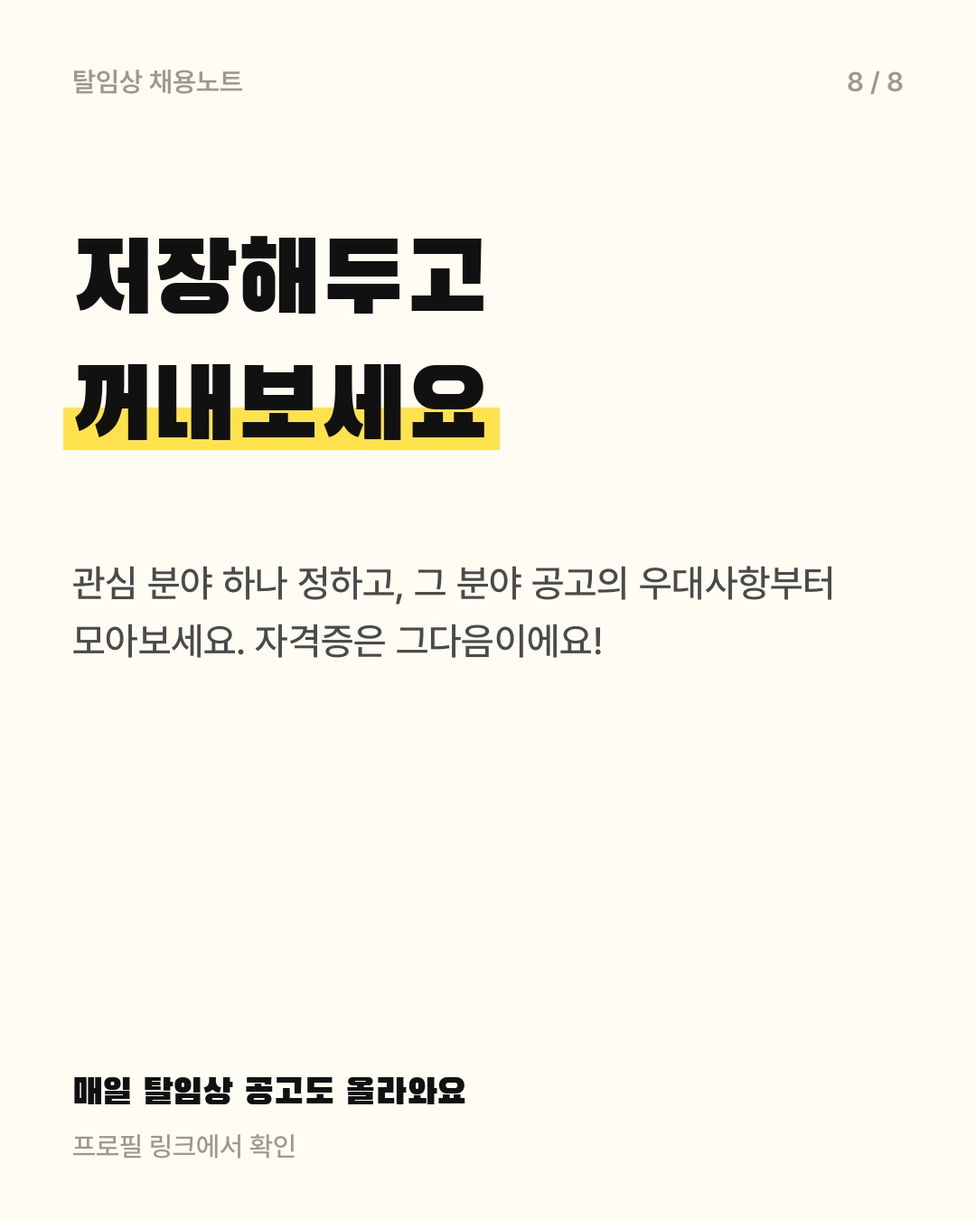
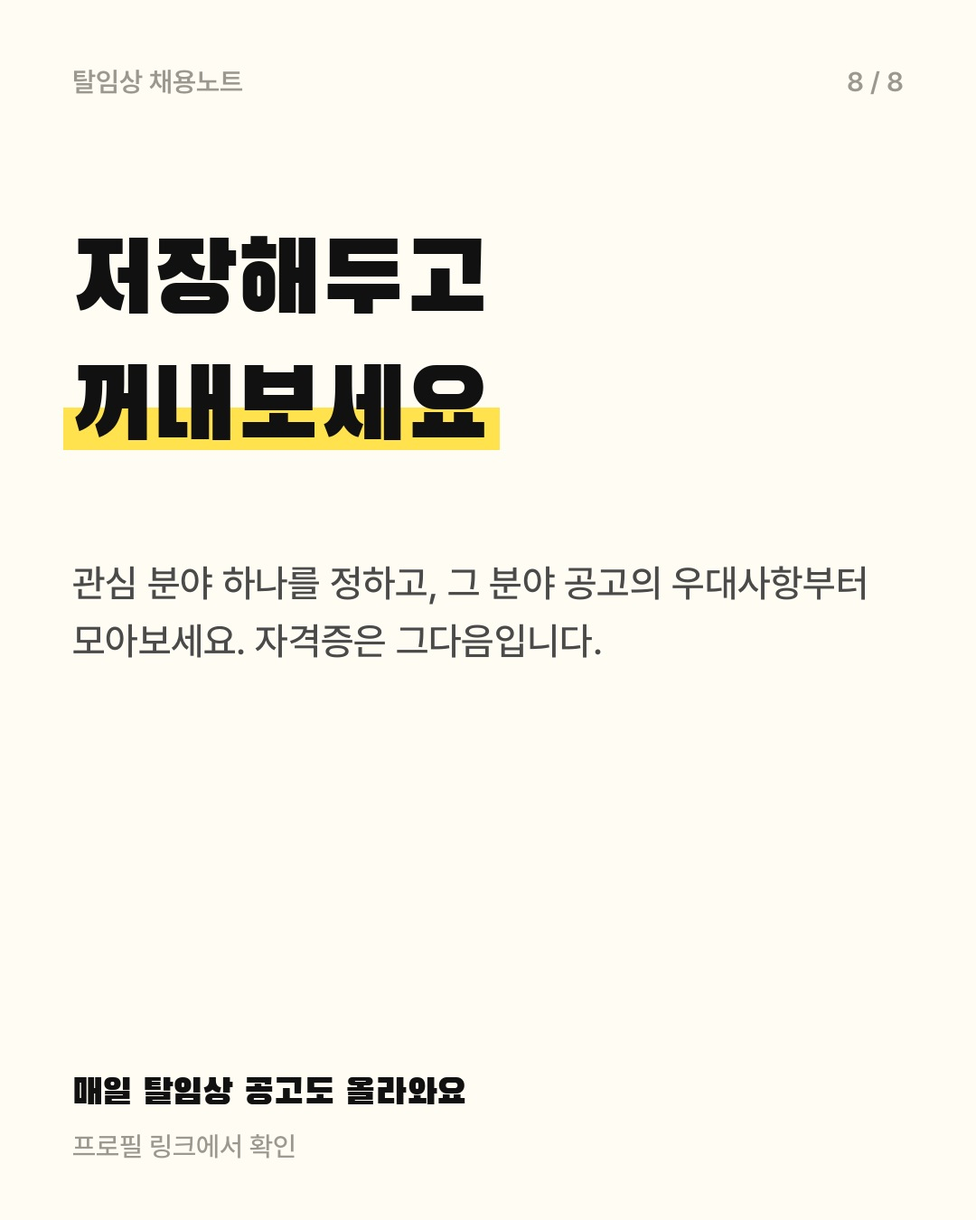
가이드 글을 예전 블로그 스타일로 (가운데 정렬·짧은 줄·인용구 소제목·구분선·카드 이미지 사이사이), 합니다체
Claude-Session: https://claude.ai/code/session_015ozFBz2a65sTR44YVUdsEW

Changed region(s): [[0.275, 0.4667, 0.8861, 0.56]]

diff --git a/docs/guides/2026-11-21/index.html b/docs/guides/2026-11-21/index.html
@@ -22,44 +22,66 @@ a{color:var(--accent)}ul.days{padding-left:1.2em}
 <div class="row" style="margin-top:8px"><pre id="pt" style="flex:1;margin:0">탈임상 간호사 자격증, 분야별로 뭘 준비할까? (산업간호사·보험심사·CRC·보건교사·공공기관)</pre>
 <button onclick="copyText('pt',this)">제목 복사</button></div>
 <details open><summary class="muted" style="margin:10px 0;cursor:pointer">본문 미리보기 (접기)</summary>
-<div id="pb" class="post"><p>탈임상을 준비하다 보면 &#x27;자격증부터 따야 하나?&#x27; 하는 고민이 꼭 생기죠. 그런데 간호사 면허 하나로 지원할 수 있는 자리도 생각보다 많고, 분야마다 실제로 도움이 되는 자격증은 전혀 달라요. 오늘은 매일 공고를 정리하면서 자주 보이는 자격·교육을 분야별로 묶어봤어요.</p><p>&nbsp;</p>
-<p><b>📚 이 글의 순서</b><br>1. 자격증보다 먼저, 가고 싶은 분야 정하기<br>2. 산업간호사(기업 보건관리자)<br>3. 보험심사·병원 행정<br>4. 임상연구(CRC·연구간호사)<br>5. 보건교사<br>6. 공공기관·공무원 &amp; 공통으로 쓸모 있는 것</p><p>&nbsp;</p>
-<h2>🧭 자격증보다 먼저, 가고 싶은 분야 정하기</h2>
-<p>자격증은 &#x27;있으면 좋은 것&#x27;과 &#x27;없으면 지원이 안 되는 것&#x27;으로 나뉘어요. 대부분의 탈임상 공고는 간호사 면허가 필수이고, 나머지 자격증은 우대 사항인 경우가 많아요.</p>
-<p>그래서 순서는 ① 관심 분야를 정하고 ② 그 분야 공고 5~10개의 자격요건·우대사항을 모아본 뒤 ③ 겹치는 자격증부터 준비하는 게 시간과 돈을 아끼는 방법이에요.</p>
-<p>&nbsp;</p>
-<h2>🏭 산업간호사(기업 보건관리자)</h2>
-<p>산업안전보건법에서 간호사는 보건관리자가 될 수 있는 자격 중 하나예요. 그래서 산업간호사 자리는 간호사 면허만으로 지원 가능한 경우가 많아요.</p>
-<ul><li>산업위생관리기사(국가기술자격): 작업환경 관리 쪽 이해를 보여줄 수 있어 우대하는 곳이 있어요. 응시 자격은 학력·경력에 따라 다르니 Q-Net에서 확인하세요.</li><li>산업전문간호사: 전문간호사 교육과정(대학원)을 거쳐야 해서 장기 계획으로 생각하는 게 좋아요.</li></ul>
-<p>💡 <b>TIP</b> 공고에 &#x27;보건관리자 선임&#x27;이라는 표현이 있으면 간호사 면허로 지원 가능한 자리인지 먼저 확인해보세요.</p>
-<p>&nbsp;</p>
-<h2>💼 보험심사·병원 행정</h2>
-<p>병원 보험심사팀이나 심사 관련 직무는 임상 경력을 그대로 살릴 수 있는 대표적인 분야예요. 이쪽 공고에서는 보험심사평가사가 우대 사항으로 자주 보여요.</p>
-<ul><li>보험심사평가사는 민간자격이라 시행 기관·시험 일정은 민간자격정보서비스에서 검색해 확인하세요.</li><li>자격증만큼 중요한 건 임상 경력이에요. 어떤 진료과에서 일했는지가 심사 업무 이해도로 연결돼요.</li></ul>
-<p>&nbsp;</p>
-<h2>🔬 임상연구(CRC·연구간호사)</h2>
-<p>CRC·연구간호사는 따로 필수 자격증이 있다기보다, 임상시험 종사자 교육 이수가 중요해요. 식약처가 지정한 교육기관에서 받는 교육으로, 입사 후 이수하게 하는 곳도 많아요.</p>
-<ul><li>공고에 &#x27;임상시험 종사자 교육 이수자 우대&#x27;가 있으면 미리 들어두는 게 유리해요.</li><li>영어 문서(프로토콜·동의서)를 다루는 일이 많아서 영어 독해에 자신 있다면 자소서에 꼭 적어주세요.</li></ul>
-<p>&nbsp;</p>
-<h2>🏫 보건교사</h2>
-<p>보건교사는 간호사 면허와 함께 보건교사 자격(교원자격)이 있어야 해요. 보통 간호학과 재학 중 교직이수로 받아요.</p>
-<p>정규 보건교사는 임용시험을 거치고, 기간제·시간강사 공고는 학교별로 수시로 올라와요. 매일 공고에 보건교사 기간제가 자주 보이는 이유예요.</p>
-<p>&nbsp;</p>
-<h2>🏛 공공기관·공무원 &amp; 공통으로 쓸모 있는 것</h2>
-<p>공공기관·공무원 쪽은 별도 간호 자격증보다 시험 준비(NCS, 필기)가 핵심이에요. 다만 공통으로 도움이 되는 것들이 있어요.</p>
-<ul><li>한국사능력검정시험: 공무원 시험에서 한국사 과목을 대신하는 경우가 있어요. 필요한 급수는 시험 공고에서 확인하세요.</li><li>컴퓨터활용능력(국가기술자격): 병원 밖 사무 업무는 엑셀이 기본이라 우대하는 공고가 꽤 있어요.</li><li>의료기기·제약 RA(인허가) 쪽에 관심 있다면 의료기기 RA 관련 자격도 있어요. 민간자격정보서비스에서 검색해보세요.</li></ul>
-<p>&nbsp;</p>
-<h2>💬 마무리 한마디</h2><p>자격증은 &#x27;언젠가 쓸모 있겠지&#x27; 하고 따기 시작하면 끝이 없더라고요. 마음이 가는 분야 하나를 정하고, 그 분야 공고를 몇 개 모아서 겹치는 것부터 준비해보세요. 매일 올리는 공고 글의 &#x27;지원 자격·우대 사항&#x27;을 모아보는 것도 좋은 방법이에요!</p><p>&nbsp;</p>
-<h2>🔗 공식 정보 확인하기</h2><ul>
-<li><a href="https://www.q-net.or.kr">Q-Net (큐넷)</a> — 국가기술자격 시험 일정·응시 자격 (산업위생관리기사 등)</li>
-<li><a href="https://www.pqi.or.kr">민간자격정보서비스</a> — 민간자격 시행 기관·등록 여부 확인 (보험심사평가사 등)</li>
-<li><a href="https://www.historyexam.go.kr">한국사능력검정시험</a> — 시험 일정·접수</li>
-<li><a href="https://license.korcham.net">대한상공회의소 자격평가사업단</a> — 컴퓨터활용능력 시험 일정·접수</li>
-</ul>
-<p>※ 시험 일정·응시 자격·비용은 바뀔 수 있어요. 준비 전 공식 사이트에서 꼭 확인해주세요.</p><p>&nbsp;</p>
-<p>매일 올라오는 탈임상 채용공고는 <b>탈임상 채용공고</b> 카테고리에서 볼 수 있어요 :)</p><p>&nbsp;</p>
-<p>#간호사자격증 #탈임상자격증 #보험심사평가사 #산업간호사 #CRC #보건교사 #탈임상 #탈임상간호사 #간호사이직 #간호사취업</p></div></details>
-<div class="row"><span class="muted">네이버 글쓰기에 제목 → 본문 순서로 붙여넣으세요</span>
+<div id="pb" class="post"><p style="text-align:center"><img src="https://a55796196-sudo.github.io/nurse_jobs/guides/2026-11-21/card-00.jpg" width="540" alt="카드 0"></p>
+<p style="text-align:center">&nbsp;</p>
+<p style="text-align:center">탈임상을 준비하다 보면<br>&#x27;자격증부터 따야 하나?&#x27; 하는 고민이 생깁니다.<br><br>하지만 간호사 면허 하나로 지원할 수 있는 자리도 많고,<br>분야마다 도움이 되는 자격증은 전혀 다릅니다.<br><br>매일 공고를 정리하며 자주 보였던 자격·교육을<br>분야별로 묶어보겠습니다.</p>
+<p style="text-align:center">&nbsp;</p>
+<hr>
+<blockquote style="text-align:center"><p style="text-align:center"><b>자격증보다 먼저, 가고 싶은 분야 정하기</b></p></blockquote>
+<p style="text-align:center"><img src="https://a55796196-sudo.github.io/nurse_jobs/guides/2026-11-21/card-01.jpg" width="540" alt="카드 1"></p>
+<p style="text-align:center">자격증은 두 가지로 나뉩니다.<br>&#x27;없으면 지원이 안 되는 것&#x27;과<br>&#x27;있으면 우대받는 것&#x27;.<br><br>대부분의 탈임상 공고는 간호사 면허가 필수이고,<br>나머지 자격증은 우대 사항인 경우가 많습니다.</p>
+<p style="text-align:center">&nbsp;</p>
+<p style="text-align:center">그래서 순서는 이렇게 추천합니다.</p>
+<p style="text-align:center">&nbsp;</p>
+<p style="text-align:center">✔ 관심 분야를 먼저 정하고<br>✔ 그 분야 공고 5~10개의 자격요건·우대사항을 모은 뒤<br>✔ 여러 공고에 겹치는 자격증부터 준비</p>
+<p style="text-align:center">&nbsp;</p>
+<hr>
+<blockquote style="text-align:center"><p style="text-align:center"><b>산업간호사 (기업 보건관리자)</b></p></blockquote>
+<p style="text-align:center"><img src="https://a55796196-sudo.github.io/nurse_jobs/guides/2026-11-21/card-02.jpg" width="540" alt="카드 2"></p>
+<p style="text-align:center">산업안전보건법상 간호사는<br>보건관리자가 될 수 있는 자격 중 하나입니다.<br><br>그래서 산업간호사 자리는<br>간호사 면허만으로 지원 가능한 경우가 많습니다.</p>
+<p style="text-align:center">&nbsp;</p>
+<p style="text-align:center">✔ 산업위생관리기사(국가기술자격) : 작업환경 관리 이해를 보여줄 수 있어 우대하는 곳이 있습니다. 응시 자격은 Q-Net에서 확인<br>✔ 산업전문간호사 : 전문간호사 교육과정(대학원)을 거쳐야 하는 장기 계획</p>
+<p style="text-align:center">&nbsp;</p>
+<p style="text-align:center">(💡 공고에 &#x27;보건관리자 선임&#x27;이라는 표현이 있으면 간호사 면허로 지원 가능한 자리인지 먼저 확인해보세요)</p>
+<p style="text-align:center">&nbsp;</p>
+<hr>
+<blockquote style="text-align:center"><p style="text-align:center"><b>보험심사 · 병원 행정</b></p></blockquote>
+<p style="text-align:center"><img src="https://a55796196-sudo.github.io/nurse_jobs/guides/2026-11-21/card-03.jpg" width="540" alt="카드 3"></p>
+<p style="text-align:center">병원 보험심사팀은<br>임상 경력을 그대로 살릴 수 있는 대표적인 분야입니다.<br><br>이쪽 공고에서는<br>보험심사평가사가 우대 사항으로 자주 보입니다.</p>
+<p style="text-align:center">&nbsp;</p>
+<p style="text-align:center">✔ 보험심사평가사는 민간자격 → 시행 기관·일정은 민간자격정보서비스에서 검색<br>✔ 자격증만큼 중요한 건 어떤 진료과에서 일했는지 (심사 업무 이해도로 연결)</p>
+<p style="text-align:center">&nbsp;</p>
+<hr>
+<blockquote style="text-align:center"><p style="text-align:center"><b>임상연구 (CRC · 연구간호사)</b></p></blockquote>
+<p style="text-align:center"><img src="https://a55796196-sudo.github.io/nurse_jobs/guides/2026-11-21/card-04.jpg" width="540" alt="카드 4"></p>
+<p style="text-align:center">CRC·연구간호사는<br>따로 필수 자격증이 있다기보다<br>임상시험 종사자 교육 이수가 중요합니다.<br><br>식약처가 지정한 교육기관에서 받는 교육으로,<br>입사 후 이수하게 하는 곳도 많습니다.</p>
+<p style="text-align:center">&nbsp;</p>
+<p style="text-align:center">✔ 공고에 &#x27;종사자 교육 이수자 우대&#x27;가 있다면 미리 들어두는 것이 유리<br>✔ 프로토콜·동의서 등 영어 문서를 다루는 일이 많아 영어 독해 능력은 자소서에 어필</p>
+<p style="text-align:center">&nbsp;</p>
+<hr>
+<blockquote style="text-align:center"><p style="text-align:center"><b>보건교사</b></p></blockquote>
+<p style="text-align:center"><img src="https://a55796196-sudo.github.io/nurse_jobs/guides/2026-11-21/card-05.jpg" width="540" alt="카드 5"></p>
+<p style="text-align:center">보건교사는 간호사 면허와 함께<br>보건교사 자격(교원자격)이 있어야 합니다.<br>보통 간호학과 재학 중 교직이수로 받습니다.</p>
+<p style="text-align:center">&nbsp;</p>
+<p style="text-align:center">정규 보건교사는 임용시험을 거치고,<br>기간제·시간강사는 학교별로 수시 채용합니다.<br><br>교원자격 없이 간호사 면허로 가는 학교 보건실<br>(대학교 건강센터, 국제학교 school nurse 등)도 있으니<br>함께 살펴보시길 추천합니다.</p>
+<p style="text-align:center">&nbsp;</p>
+<hr>
+<blockquote style="text-align:center"><p style="text-align:center"><b>공공기관 · 공무원, 그리고 공통으로 쓸모 있는 것</b></p></blockquote>
+<p style="text-align:center"><img src="https://a55796196-sudo.github.io/nurse_jobs/guides/2026-11-21/card-06.jpg" width="540" alt="카드 6"></p>
+<p style="text-align:center">공공기관·공무원은<br>간호 관련 자격증보다 NCS·필기 준비가 핵심입니다.<br><br>다만 어느 분야든 도움이 되는 것들이 있습니다.</p>
+<p style="text-align:center">&nbsp;</p>
+<p style="text-align:center">✔ 한국사능력검정시험 : 공무원 시험에서 한국사 과목을 대신하는 경우가 있음 (필요 급수는 시험 공고 확인)<br>✔ 컴퓨터활용능력 : 병원 밖 사무 업무는 엑셀이 기본이라 우대하는 공고가 꽤 있음<br>✔ 의료기기 RA(인허가) 자격 : 의료기기·제약 쪽에 관심 있다면 민간자격정보서비스에서 검색</p>
+<p style="text-align:center">&nbsp;</p>
+<hr>
+<p style="text-align:center">자격증은 &#x27;언젠가 쓸모 있겠지&#x27; 하고 시작하면 끝이 없습니다.<br><br>마음이 가는 분야 하나를 정하고,<br>그 분야 공고를 몇 개 모아<br>겹치는 것부터 준비해보시길 바랍니다.<br><br>매일 올리는 공고 글의 지원 자격·우대 사항을<br>모아보는 것도 좋은 방법입니다.</p>
+<p style="text-align:center">&nbsp;</p>
+<p style="text-align:center"><b>공식 정보 확인</b><br><a href="https://www.q-net.or.kr">Q-Net (큐넷)</a> · 국가기술자격 일정·응시 자격<br><a href="https://www.pqi.or.kr">민간자격정보서비스</a> · 민간자격 시행 기관 확인<br><a href="https://www.historyexam.go.kr">한국사능력검정시험</a> · 시험 일정·접수<br><a href="https://license.korcham.net">대한상공회의소 자격평가사업단</a> · 컴퓨터활용능력 일정·접수</p>
+<p style="text-align:center">※ 시험 일정·응시 자격·비용은 바뀔 수 있으니 준비 전 공식 사이트에서 확인하시기 바랍니다.</p>
+<hr>
+<p style="text-align:center">다음 주에는 임상 경력을 탈임상 자소서에 녹이는 법으로 찾아뵙겠습니다.<br>읽어주셔서 감사합니다.</p>
+<p style="text-align:center">&nbsp;</p>
+<p style="text-align:center">#간호사자격증 #탈임상자격증 #보험심사평가사 #산업간호사 #CRC #보건교사 #탈임상 #탈임상간호사 #간호사이직 #간호사취업</p></div></details>
+<div class="row"><span class="muted">제목 → 본문 순서로 붙여넣기. 카드 이미지가 같이 안 붙으면 아래 카드뉴스를 저장해 그 자리에 넣고, 글꼴은 나눔마루부리로 바꾸세요</span>
 <button onclick="copyHtml('pb',this)">본문 복사</button></div>
 <div class="row" style="margin-top:10px"><pre id="tg" style="flex:1;margin:0">#간호사자격증 #탈임상자격증 #보험심사평가사 #산업간호사 #CRC #보건교사 #탈임상 #탈임상간호사 #간호사이직 #간호사취업</pre>
 <button onclick="copyText('tg',this)">태그 복사</button></div>
@@ -70,7 +92,7 @@ a{color:var(--accent)}ul.days{padding-left:1.2em}
 <div class="cards"><a href="card-00.jpg" download><img src="card-00.jpg" alt="카드 0"></a><a href="card-01.jpg" download><img src="card-01.jpg" alt="카드 1"></a><a href="card-02.jpg" download><img src="card-02.jpg" alt="카드 2"></a><a href="card-03.jpg" download><img src="card-03.jpg" alt="카드 3"></a><a href="card-04.jpg" download><img src="card-04.jpg" alt="카드 4"></a><a href="card-05.jpg" download><img src="card-05.jpg" alt="카드 5"></a><a href="card-06.jpg" download><img src="card-06.jpg" alt="카드 6"></a><a href="card-07.jpg" download><img src="card-07.jpg" alt="카드 7"></a></div></div>
 
 <div class="box"><div class="row"><b>📷 인스타 캡션</b><button onclick="copyText('cap',this)">캡션 복사</button></div>
-<pre id="cap">💡 탈임상 자격증, 아무거나 따지 마세요! 분야별로 정리했어요
+<pre id="cap">💡 탈임상 자격증, 분야별로 정리했습니다
 
 1. 분야부터 정하기
 2. 산업간호사

diff --git a/src/guide.py b/src/guide.py
@@ -10,6 +10,7 @@ from __future__ import annotations
 
 import html
 import json
+import os
 from datetime import date
 from pathlib import Path
 
@@ -76,30 +77,41 @@ def tags(g: dict) -> list[str]:
 
 # ---------- 블로그 ----------
 
-def post_html(g: dict) -> str:
-    out = [f"<p>{_e(g['intro'])}</p><p>&nbsp;</p>"]
-    secs = g["sections"]
-    if len(secs) >= 4:  # 목차
-        out.append("<p><b>📚 이 글의 순서</b><br>" + "<br>".join(f"{i}. {_e(s['heading'])}" for i, s in enumerate(secs, 1)) + "</p><p>&nbsp;</p>")
-    for s in secs:
-        out.append(f"<h2>{_e(s.get('emoji', '📌'))} {_e(s['heading'])}</h2>")
+PAGES = (os.environ.get("PAGES_BASE_URL") or "https://a55796196-sudo.github.io/nurse_jobs").rstrip("/")
+C = 'style="text-align:center"'
+
+
+def _br(text: str) -> str:
+    """줄바꿈(\n)을 살린 가운데 정렬 문단. 한 줄에 한 문장씩 짧게."""
+    return f"<p {C}>" + "<br>".join(_e(x) for x in str(text).split("\n")) + "</p>"
+
+
+def _gap() -> str:
+    return f"<p {C}>&nbsp;</p>"
+
+
+def post_html(g: dict, day: str = "") -> str:
+    """네이버 블로그용 본문. 가운데 정렬 · 짧은 줄 · 인용구 소제목 · 구분선 · 카드 이미지 사이사이."""
+    img = (lambda n: f'<p {C}><img src="{PAGES}/guides/{day}/card-{n:02d}.jpg" width="540" alt="카드 {n}"></p>') if day else (lambda n: "")
+    out = [img(0), _gap(), _br(g["intro"]), _gap(), "<hr>"]
+    for n, s in enumerate(g["sections"], 1):
+        out.append(f'<blockquote {C}><p {C}><b>{_e(s["heading"])}</b></p></blockquote>')
+        out.append(img(n))
         for p in s.get("paragraphs") or []:
-            out.append(f"<p>{_e(p)}</p>")
+            out += [_br(p), _gap()]
         if s.get("bullets"):
-            out.append("<ul>" + "".join(f"<li>{_e(b)}</li>" for b in s["bullets"]) + "</ul>")
+            out += [f"<p {C}>" + "<br>".join("✔ " + _e(b) for b in s["bullets"]) + "</p>", _gap()]
         if s.get("tip"):
-            out.append(f"<p>💡 <b>TIP</b> {_e(s['tip'])}</p>")
-        out.append("<p>&nbsp;</p>")
-    out.append(f"<h2>💬 마무리 한마디</h2><p>{_e(g['comment'])}</p><p>&nbsp;</p>")
+            out += [f"<p {C}>(💡 {_e(s['tip'])})</p>", _gap()]
+        out.append("<hr>")
+    out += [_br(g["comment"]), _gap()]
     if g.get("links"):
-        out.append("<h2>🔗 공식 정보 확인하기</h2><ul>")
-        out += [f'<li><a href="{_e(l["url"])}">{_e(l["name"])}</a>' + (f" — {_e(l['desc'])}" if l.get("desc") else "") + "</li>"
-                for l in g["links"]]
-        out.append("</ul>")
-    out.append("<p>※ 시험 일정·응시 자격·비용은 바뀔 수 있어요. 준비 전 공식 사이트에서 꼭 확인해주세요.</p><p>&nbsp;</p>")
-    out.append("<p>매일 올라오는 탈임상 채용공고는 <b>탈임상 채용공고</b> 카테고리에서 볼 수 있어요 :)</p><p>&nbsp;</p>")
-    out.append("<p>" + " ".join(f"#{_e(t)}" for t in tags(g)) + "</p>")
-    return "\n".join(out)
+        out.append(f"<p {C}><b>공식 정보 확인</b><br>" + "<br>".join(
+            f'<a href="{_e(l["url"])}">{_e(l["name"])}</a>' + (f" · {_e(l['desc'])}" if l.get("desc") else "") for l in g["links"]) + "</p>")
+        out.append(f"<p {C}>※ 시험 일정·응시 자격·비용은 바뀔 수 있으니 준비 전 공식 사이트에서 확인하시기 바랍니다.</p>")
+    out += ["<hr>", _br((g.get("next_teaser") + "\n" if g.get("next_teaser") else "") + "읽어주셔서 감사합니다."), _gap()]
+    out.append(f"<p {C}>" + " ".join(f"#{_e(t)}" for t in tags(g)) + "</p>")
+    return "\n".join(x for x in out if x)
 
 
 def caption(g: dict) -> str:
@@ -246,8 +258,8 @@ def build(path: Path, docs: Path) -> Path:
 <div class="row" style="margin-top:8px"><pre id="pt" style="flex:1;margin:0">{_e(g['title'])}</pre>
 <button onclick="copyText('pt',this)">제목 복사</button></div>
 <details open><summary class="muted" style="margin:10px 0;cursor:pointer">본문 미리보기 (접기)</summary>
-<div id="pb" class="post">{post_html(g)}</div></details>
-<div class="row"><span class="muted">네이버 글쓰기에 제목 → 본문 순서로 붙여넣으세요</span>
+<div id="pb" class="post">{post_html(g, day)}</div></details>
+<div class="row"><span class="muted">제목 → 본문 순서로 붙여넣기. 카드 이미지가 같이 안 붙으면 아래 카드뉴스를 저장해 그 자리에 넣고, 글꼴은 나눔마루부리로 바꾸세요</span>
 <button onclick="copyHtml('pb',this)">본문 복사</button></div>
 <div class="row" style="margin-top:10px"><pre id="tg" style="flex:1;margin:0">{_e(tg)}</pre>
 <button onclick="copyText('tg',this)">태그 복사</button></div>

diff --git a/CLAUDE.md b/CLAUDE.md
@@ -75,11 +75,13 @@ GitHub Actions가 매일 05:17(KST, 종종 늦어짐)에 공고를 수집해 `da
 ## 주말 탈임상 가이드 (주 1회, 블로그 글 + 인스타 카드뉴스)
 **토요일**(KST) 세션에서 쓴다. 토요일에 못 썼으면 일요일에 쓴다. 이번 주 토·일 날짜의 `data/guides/YYYY-MM-DD.json`이 이미 있으면 건너뛴다.
 1. `data/guides/topics.md`에서 주제를 고른다: "직접 던진 주제"의 첫 `- [ ]` → 없으면 "기본 주제"의 첫 `- [ ]`. 기본 주제도 다 썼으면 비슷한 결의 새 주제를 정해 추가한다.
-2. `data/guides/YYYY-MM-DD.json` 작성 (형식은 `data/guides/2026-11-21.json` 참고):
+2. **먼저 `data/guides/STYLE.md`(문체·줄바꿈 규칙)를 읽고** `data/guides/YYYY-MM-DD.json` 작성 (형식은 `data/guides/2026-11-21.json` 참고):
    - `category`: `"자소서/면접"` 또는 `"병원 밖 업무 스킬"` (자격증 글은 병원 밖 업무 스킬)
    - `title`: 블로그 제목 (검색될 단어를 넣어서). `cover`: 표지·썸네일 1~3줄 (한 줄 10자 이내, 마지막 줄 형광펜). `subtitle`: 표지 한 줄 설명
    - `intro`: 도입 2~3문장. `sections` 3~7개: `emoji`, `heading`, `paragraphs`, `bullets`, `tip`(선택), `card_title`(카드 제목 16자 이내), `card`(카드 문장 1~4개, 각 42자 이내)
-   - `comment`: 마무리 한마디 (2~3문장). `closing`: 마지막 카드 문장. `links`: 공식 확인처 (확실한 주소만). `tags`: 4~6개. `caption_hook`: 인스타 첫 줄
+   - `intro`·`paragraphs`·`comment`는 **한 줄에 한 문장씩 `\n`으로 끊고 문단 사이는 `\n\n`** (블로그에서 가운데 정렬로 나감)
+   - `next_teaser`: 다음 주 주제 예고 한 줄 (topics.md의 다음 `- [ ]` 주제, 예: "다음 주에는 ~로 찾아뵙겠습니다.")
+   - `comment`: 마무리 (2~4줄). `closing`: 마지막 카드 문장. `links`: 공식 확인처 (확실한 주소만). `tags`: 4~6개. `caption_hook`: 인스타 첫 줄
    - **정확성**: 시험 일정·응시료·합격률·연봉 숫자·법 조항 번호처럼 바뀌거나 틀리기 쉬운 정보는 쓰지 말고 "공식 사이트에서 확인"으로 안내한다. 확실하지 않은 기관명·제도는 빼거나 일반적으로 표현한다. 이 환경에서는 국내 사이트 확인이 안 되므로 확실히 아는 내용만 쓴다.
    - 말투는 공고 글과 같은 간결한 합니다체 (해요체 금지). `data/jobs/`의 최근 공고(자격요건·우대사항)를 근거로 쓰면 좋다.
 3. `python -m src.main guide-check YYYY-MM-DD` → OK 나올 때까지 수정 → `python -m src.main guide-build YYYY-MM-DD`

diff --git a/data/guides/STYLE.md b/data/guides/STYLE.md
@@ -1,0 +1,19 @@
+# 탈임상 가이드 글 스타일 (사용자가 예전에 운영한 블로그 기준)
+
+참고 글: blog.naver.com/everythingicando/223583182202 (정보글), /223615496054 (일상글)
+예시 완성본: data/guides/2026-11-21.json
+
+## 형식 (코드가 자동으로 처리)
+- 전체 **가운데 정렬**, 섹션 소제목은 **인용구**, 섹션 사이 **구분선**
+- 소제목 바로 아래에 그 섹션 **카드뉴스 이미지** (글 ↔ 이미지 번갈아)
+- 목록은 ✔ 로 시작하는 줄
+- 맨 끝: `next_teaser`(다음 주제 예고) + "읽어주셔서 감사합니다."
+
+## 문장 (JSON 쓸 때 지킬 것)
+- **한 줄에 한 문장(또는 반 문장)**. 길면 의미 단위로 `\n` 으로 끊는다. 한 줄 25자 안팎.
+- 문단 사이는 `\n\n` (빈 줄). 한 문단은 2~4줄.
+- **간결한 합니다체** (~습니다/~입니다, 명사형 종결 가능). 해요체 금지. 감탄사·과한 이모지 금지.
+- 설명은 담백하게: "~을 기준으로 보면 더 쉽게 찾을 수 있습니다" 같은 안내형 문장.
+- 괄호로 짧은 보충을 다는 건 좋다: "(필요 급수는 시험 공고 확인)"
+- 도입은 짧게: 독자가 겪는 고민 한 줄 → 이 글에서 무엇을 정리하는지.
+- bullets 는 한 줄 요약형 ("A : 설명"), 문장 끝 마침표 없이.
